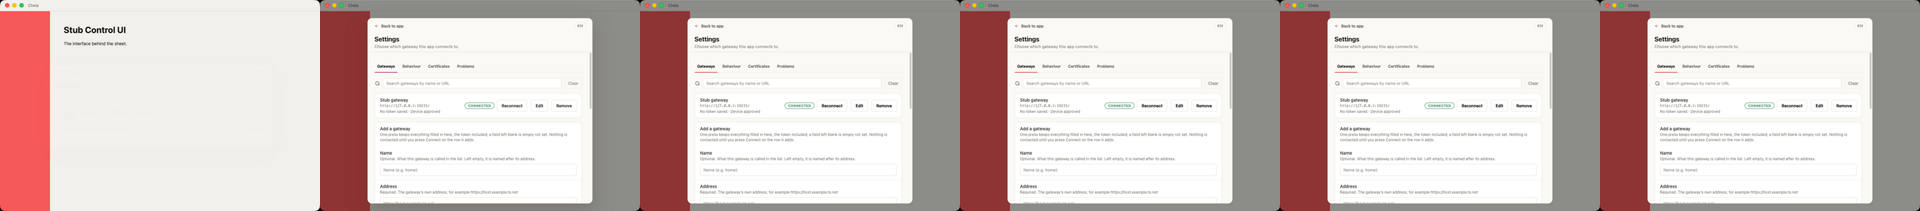
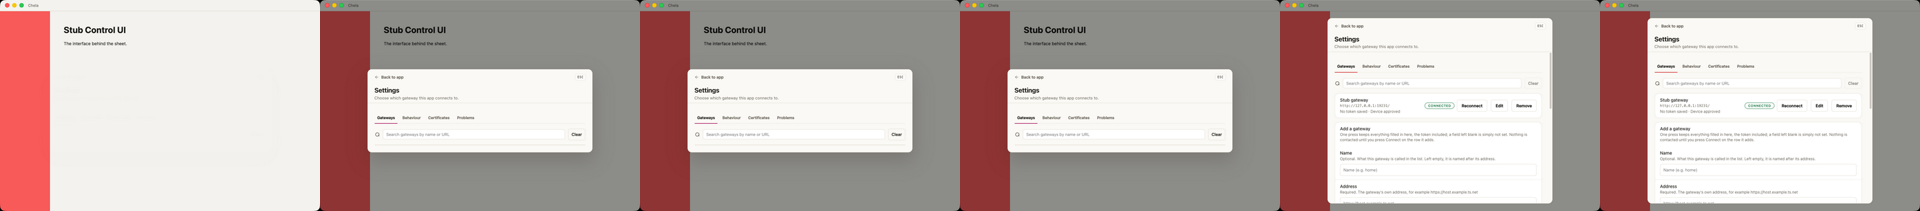
docs: refresh the settings backdrop captures, and add the phone's
Desktop captures from the final branch on a hosted macOS runner, and the
phone's Settings and About at rest before and after on an iOS 27
simulator, which are the same by design.

diff --git a/docs/proof/settings-backdrop/README.md b/docs/proof/settings-backdrop/README.md
@@ -1,8 +1,9 @@
 # Settings backdrop: before and after
 
-Captured by `desktop/scripts/test-settings-backdrop.js` on a hosted macOS 26 runner (arm64, Electron 44.4.1), against a stub Control UI page that paints a red column down its left edge. The runner's own appearance is light, so a page's fallback palette is the light one.
+Desktop captures are from `desktop/scripts/test-settings-backdrop.js` on a hosted macOS 26 runner (arm64, Electron 44.4.1), against a stub Control UI page that paints a red column down its left edge. The runner's own appearance is light, so a page's fallback palette is the light one.
 
-- `macos-before-*-arrival.png`, `macos-after-*-arrival.png`: six frames from the first visible change after Settings is opened, left to right, about 900ms in all. Before, the whole window goes to the light fallback page colour and then to the page colour of the theme: the Control UI is gone. After, the Control UI stays on screen and darkens under the drawer dim.
-- `*-settings.png`: Settings at rest. `*-about-over-settings.png`: About opened from Settings, one dim.
+- `macos-before-*-arrival.png`, `macos-after-*-arrival.png`: six frames from just before the first visible change after Settings is opened, left to right. Before, the whole window goes to the light fallback page colour and then to the theme's page colour: the Control UI is gone. After, the Control UI stays on screen and darkens under the drawer dim.
+- `macos-*-settings.png`: Settings at rest. `macos-*-about-over-settings.png`: About opened from Settings; after, one dim.
+- `ios-*`: the phone on an iOS 27 simulator, Settings and About at rest, before and after, which are the same by design: the native sheet dims what is behind it and the page inside it keeps its own background. `ios-after-settings-launch-strip.png` is the launch with Settings opened, sampled at 6 frames a second. The stub page is not a gateway the phone connects to, so what is behind its sheet is the app's unconnected state rather than a Control UI.
 
 On the after dark frames the card itself arrives in the light fallback palette and changes to the theme once it has landed. That is the card's own first paint, not the backdrop, and it is named in the PR as a separate finding.
